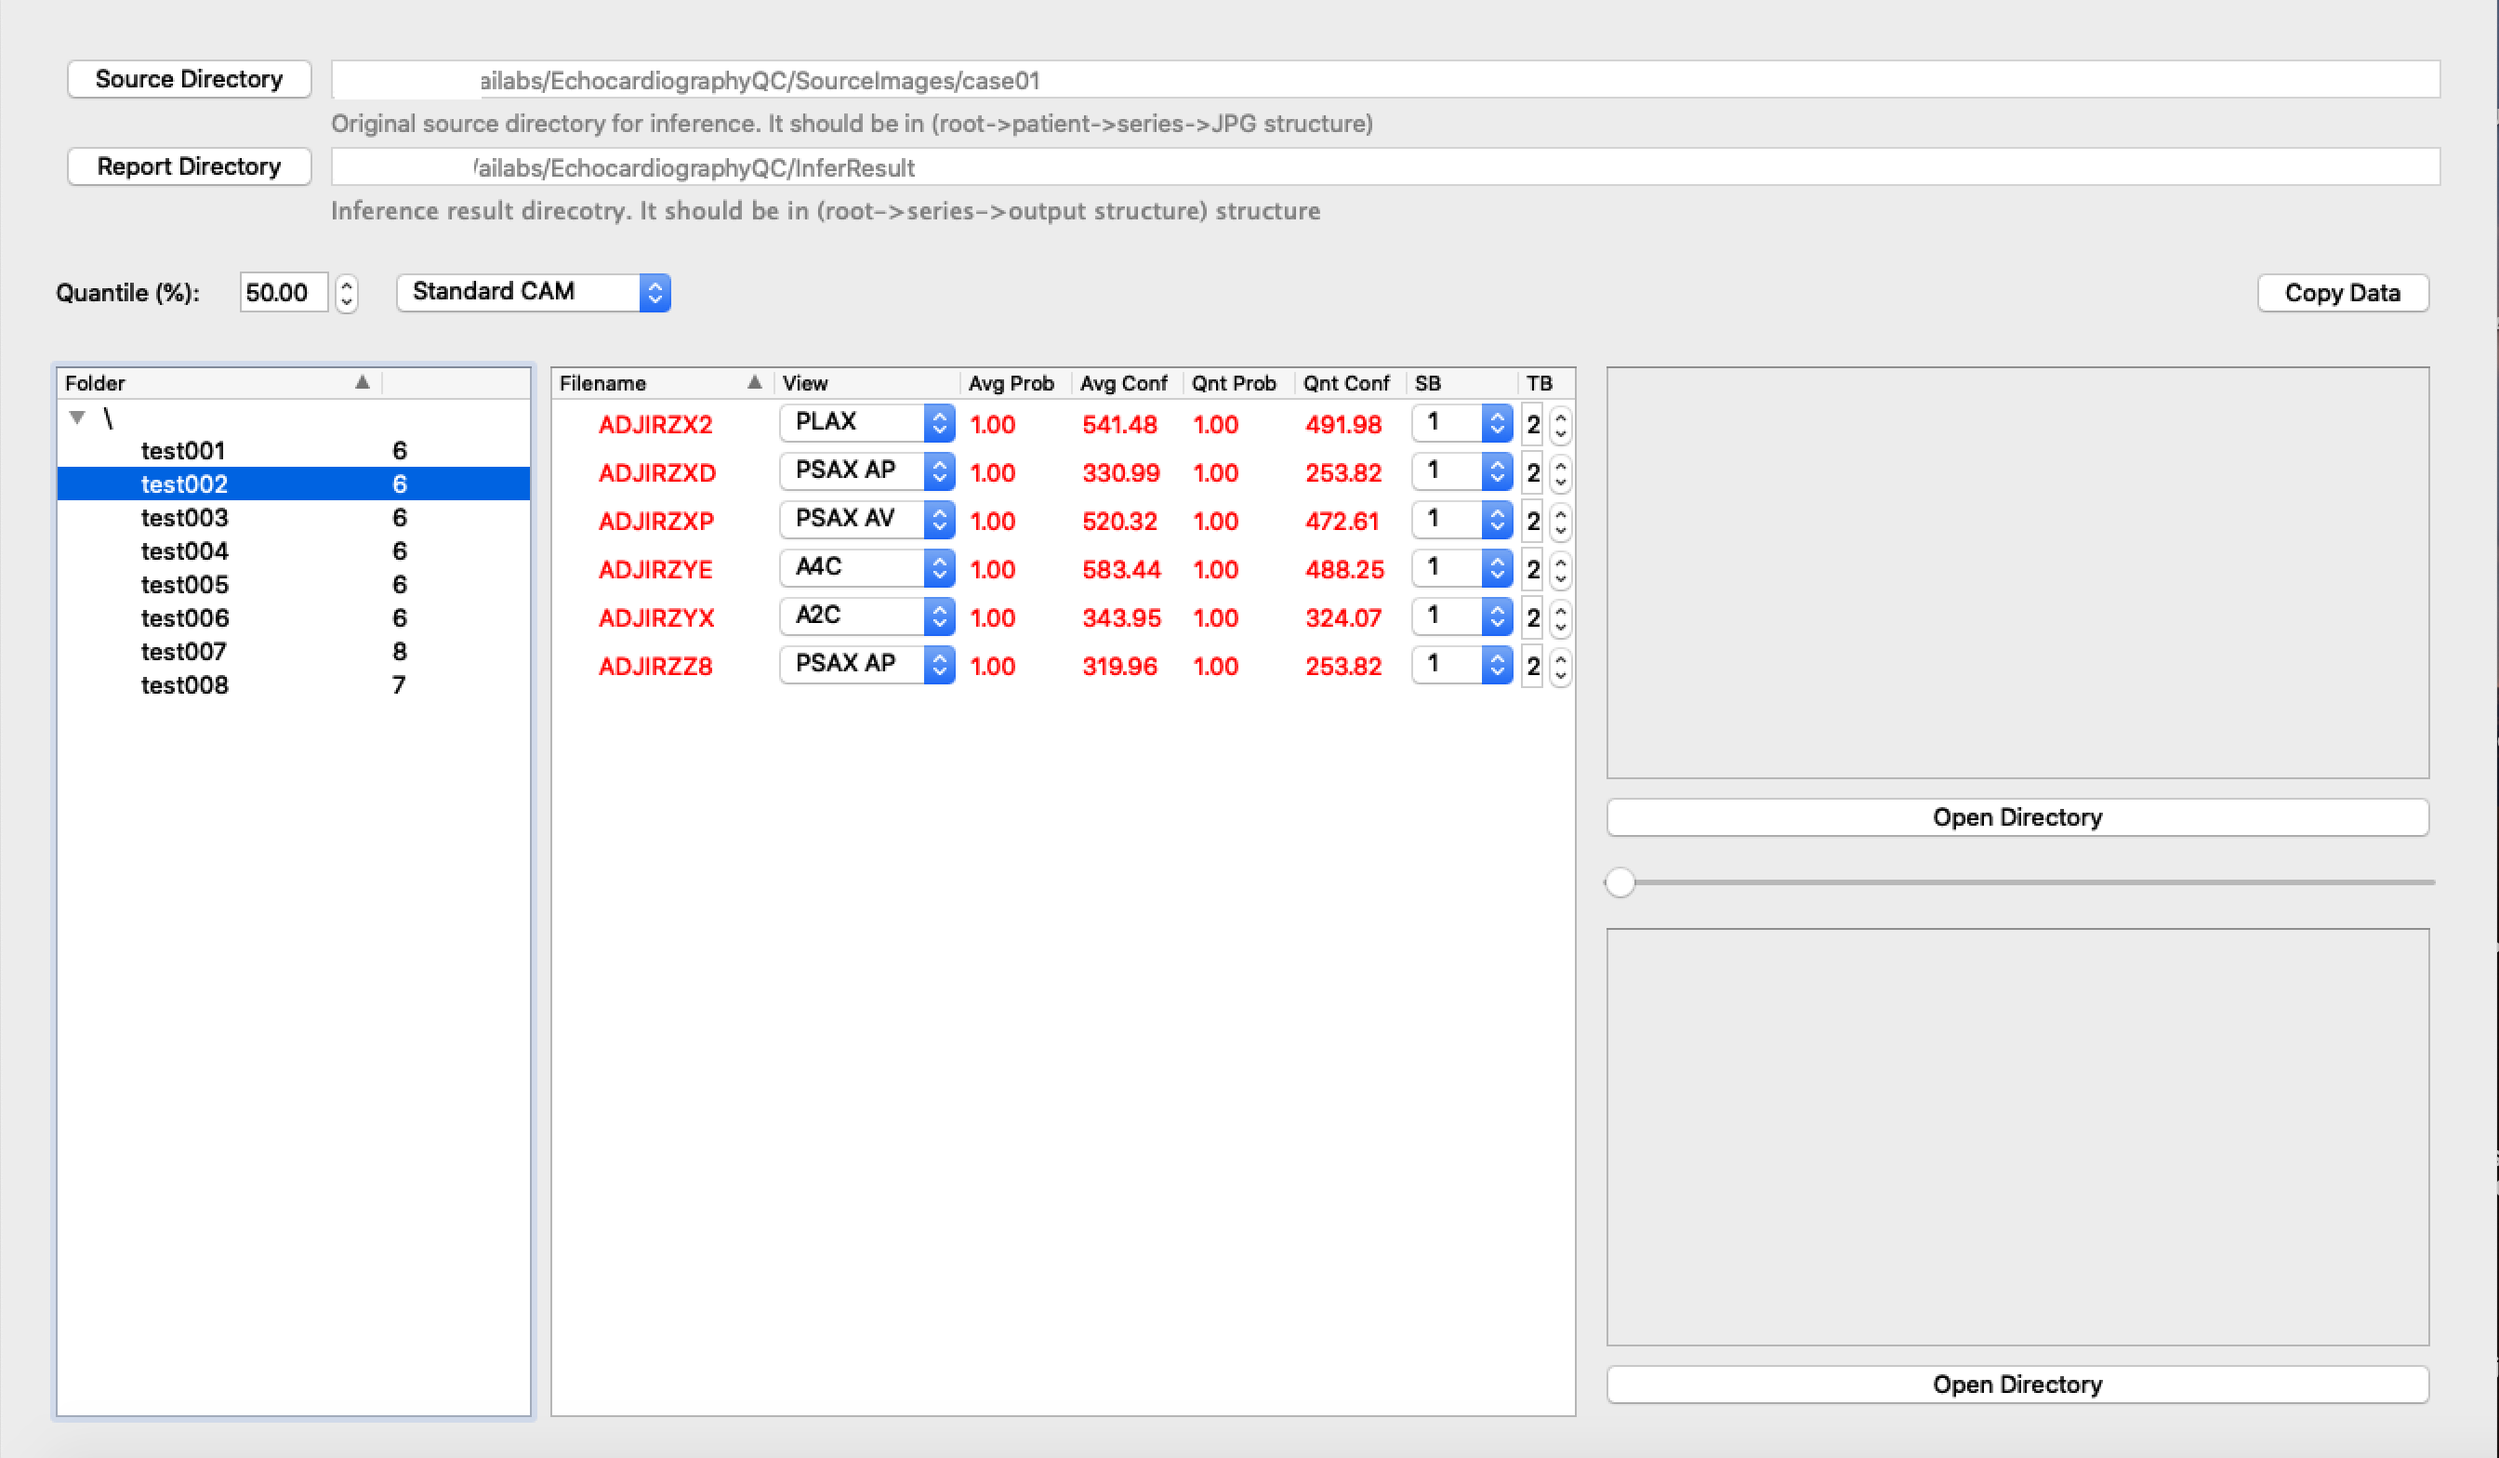
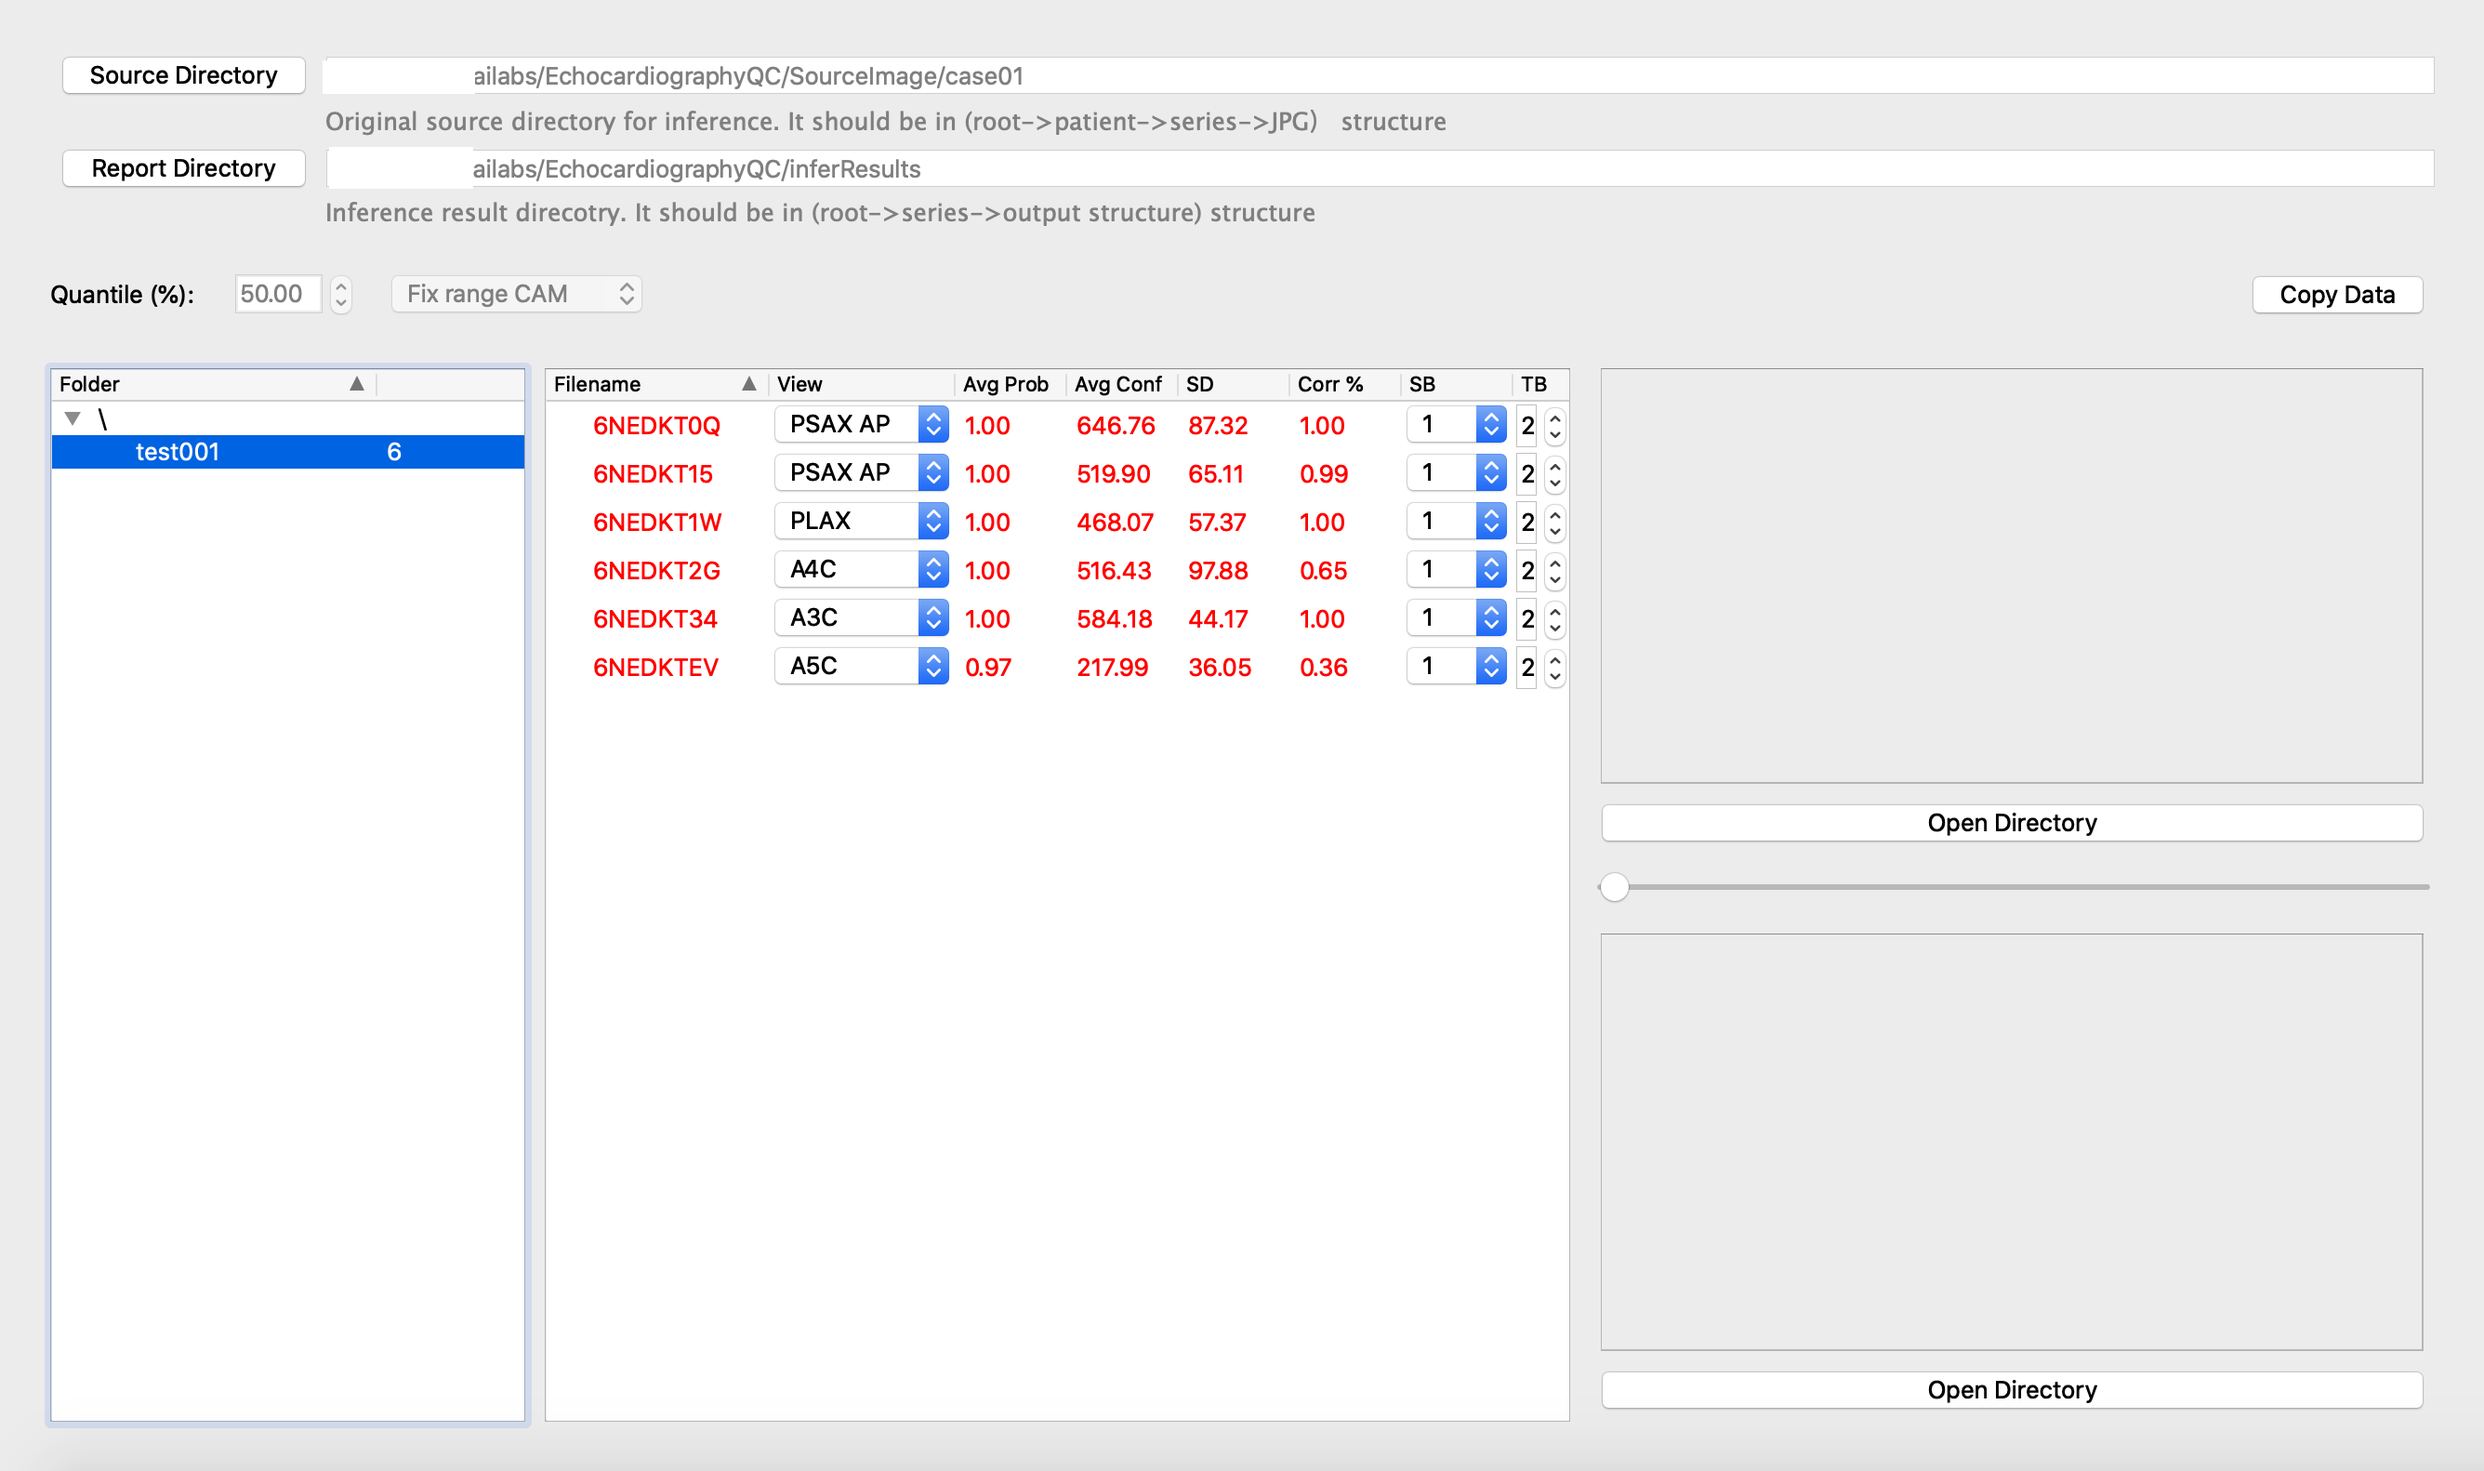
Update readme and png

diff --git a/README.md b/README.md
@@ -58,7 +58,9 @@ Select the source directory and the report directory, which should be as same as
 
 ![](./materials/view-sample.png)
 
-#### View stats of patients
+#### View stats and inference images of patients
+
+
 
 After navigating to the patient in the left region, the central region will show each series inference result for this patient.
 Each column (from left to right) represents:
@@ -68,26 +70,13 @@ Each column (from left to right) represents:
 Other view's quality confidence and prediction confidence can be seen by dragging the list.
 3. `Avg Prob`: Average prediction probability of the view. This number is averaged over the selected cycles(SB column).
 4. `Avg Conf`: Average **quality confidence** of the view. This number is averaged over the selected cycles(SB column).
-5. `Qnt Prob`: Taking the nth quantile of prediction probability of the view. This is the nth quantile of the selected cycles(SB column).
+5. `SD`: Standard Deviation of **quality confidence** of the view. 
 The nth quantile could be adjusted through the text box above the left region.
-5. `Qnt Conf`: Taking the nth quantile of **quality confidence** of the view. This is the nth quantile of the selected cycles(SB column).
-The nth quantile could be adjusted through the text box above the left region.
+5. `Corr %`: The correct percentage of the DICOM video. This value is calculated by correct view prediction frames / total frames.
 6. `SB`: Select which cardiography cycles to be viewed.
 7. `TB`: Select total cardiography cycles to be viewed.
 
+In the right region, the upper block show the original images and the lower block show the inference images. 
 
 ![](./materials/view-sample2.png)
-
-#### View inference images of patients
-
-In the right region, the upper block show the original images and the lower block show the inference images. \
-Other images could be viewed by dragging the bar in the middle.
-
-Three kinds of CAM map could be selected by the list next to the quantile box. 
-1. `Standard`: No normalization
-2. `Fix Range`: Normalize to (-25, 25)
-3. `Video Base`: Normalize to (minimum CAM value of the series, maximum CAM value of the series)
-
-![](materials/select-cam.png)
-
 
